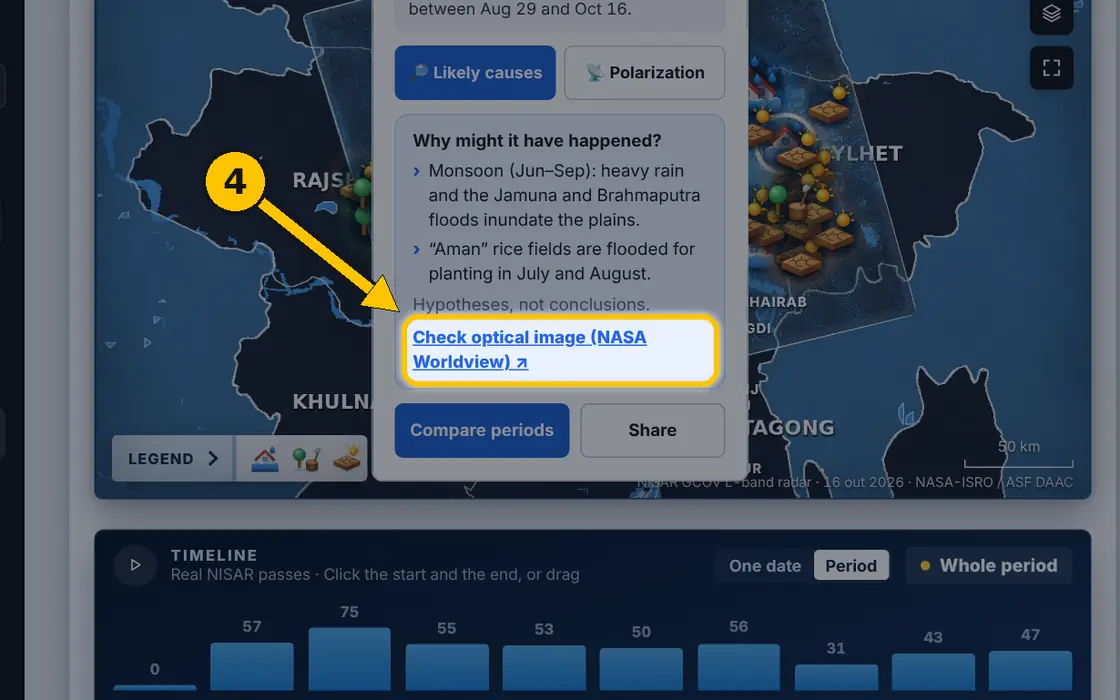
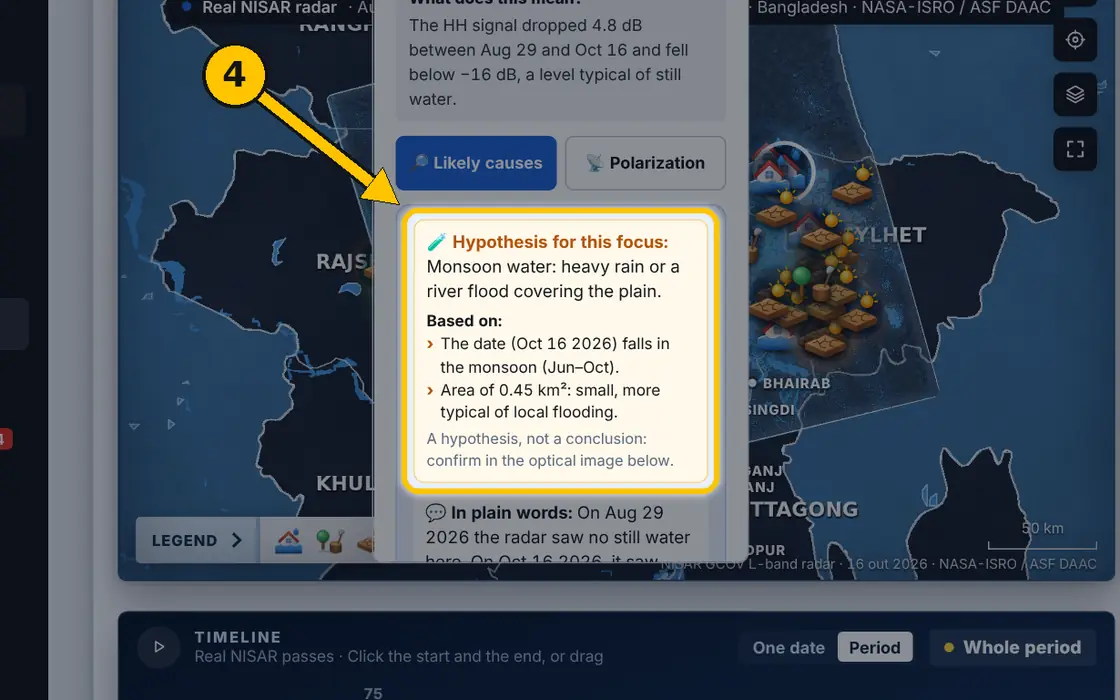
v3.3 - tutoriais e guia de uso

diff --git a/web/src/lib/tutorials.ts b/web/src/lib/tutorials.ts
@@ -268,30 +268,32 @@ export const TUTORIALS: Tut[] = [
   {
     id: 'ciencia', ic: 'radar', group: 'analyze', act: 'map',
     pt: {
-      t: 'Causas prováveis e polarizações',
-      d: 'Entenda por que algo mudou e qual sinal do radar mostrou essa mudança. Está em cada foco, no mapa e na comparação.',
+      t: 'Causas prováveis, hipóteses e polarizações',
+      d: 'Entenda por que algo mudou: hipóteses tiradas dos dados reais, o contexto do lugar com fontes e qual sinal do radar mostrou a mudança.',
       steps: [
-        'No cabeçalho do Mapa de mudanças, clique em “🔎 Causas prováveis” para ver as medições reais da região e o que pode gerar cada sinal.',
-        'Clique em “📡 Polarizações” para entender a diferença entre radar e satélite comum, e o que os sinais HH e HV mostram.',
-        'Clique em um foco no mapa. No cartão, use os botões próprios “Causas prováveis” e “Polarização” daquele foco.',
-        'Em “Causas prováveis”, use “Conferir imagem óptica (NASA Worldview)” para ver a mesma área numa foto de satélite comum.',
-        'Na tela Comparar períodos, os mesmos dois botões aparecem embaixo da “Causa provável”.',
+        'Use NISAR real e, no cabeçalho do Mapa de mudanças, clique em “🔎 Causas prováveis”.',
+        'No topo da janela fica a HIPÓTESE da região: o que provavelmente causou as mudanças, os dados reais que apoiam essa ideia e o contexto do lugar com fontes.',
+        'Logo abaixo, a tabela mostra quantos focos de cada tipo apareceram em cada passagem do satélite, com uma explicação “Em palavras simples”.',
+        'Clique em um foco no mapa e em “Causas prováveis” no cartão: no topo aparece a “Hipótese para este foco”, calculada com o histórico daquele ponto.',
+        'Clique em “📡 Polarização” no cartão para ver qual sinal (HH ou HV) mostrou a mudança e quantas vezes o eco mudou.',
+        'Use “Conferir qual foi na imagem óptica (NASA Worldview)” para confirmar a hipótese numa foto de satélite comum.',
       ],
-      tip: 'O radar mede a mudança, não a causa. Confirme qual possibilidade aconteceu com a imagem óptica ou com quem está na região.',
-      ex: 'Em Bangladesh, nas passagens de 22 set, 4 out e 16 out, o radar achou mais focos de água que recuou (25, 25 e 17) que de água nova (5 em cada). Os dados mostram a água saindo; o motivo se confirma na imagem óptica.',
+      tip: 'As hipóteses são recalculadas a cada nova passagem do satélite, usando todo o histórico do lugar. São hipóteses, não conclusões: confirme na imagem óptica.',
+      ex: 'Em Bangladesh, um foco de água que recuou em 16 out mostra “Fim de um alagamento que começou em 29 ago”, porque o radar viu água nova naquele mesmo ponto em 29 ago.',
     },
     en: {
-      t: 'Likely causes and polarizations',
-      d: 'Understand why something changed and which radar signal showed it. It is on every detection, on the map and in the comparison.',
+      t: 'Likely causes, hypotheses and polarizations',
+      d: 'Understand why something changed: hypotheses drawn from real data, the place’s context with sources, and which radar signal showed the change.',
       steps: [
-        'In the Change map header, click “🔎 Likely causes” to see the real measurements for the region and what can produce each signal.',
-        'Click “📡 Polarizations” to understand the difference between radar and a regular satellite, and what the HH and HV signals show.',
-        'Click a detection on the map. On its card, use that detection’s own “Likely causes” and “Polarization” buttons.',
-        'In “Likely causes”, use “Check optical image (NASA Worldview)” to see the same area in a regular satellite photo.',
-        'On the Compare periods screen, the same two buttons appear below the “Likely cause”.',
+        'Use Real NISAR and, in the Change map header, click “🔎 Likely causes”.',
+        'At the top of the window is the region’s HYPOTHESIS: what probably caused the changes, the real data supporting it and the place’s context with sources.',
+        'Below, the table shows how many detections of each type appeared in each satellite pass, with an “In plain words” explanation.',
+        'Click a detection on the map and “Likely causes” on its card: the top shows the “Hypothesis for this focus”, built from that spot’s history.',
+        'Click “📡 Polarization” on the card to see which signal (HH or HV) showed the change and how many times the echo changed.',
+        'Use “Check which one in the optical image (NASA Worldview)” to confirm the hypothesis in a regular satellite photo.',
       ],
-      tip: 'Radar measures the change, not the cause. Confirm which possibility happened with the optical image or with people in the region.',
-      ex: 'In Bangladesh, on the 22 Sep, 4 Oct and 16 Oct passes, radar found more water-receded detections (25, 25 and 17) than new water (5 each). The data shows water leaving; the reason is confirmed in the optical image.',
+      tip: 'Hypotheses are recalculated with every new satellite pass, using the place’s whole history. They are hypotheses, not conclusions: confirm in the optical image.',
+      ex: 'In Bangladesh, a receded-water detection on 16 Oct shows “End of a flood that began on 29 Aug”, because radar saw new water at that same spot on 29 Aug.',
     },
   },
   {
